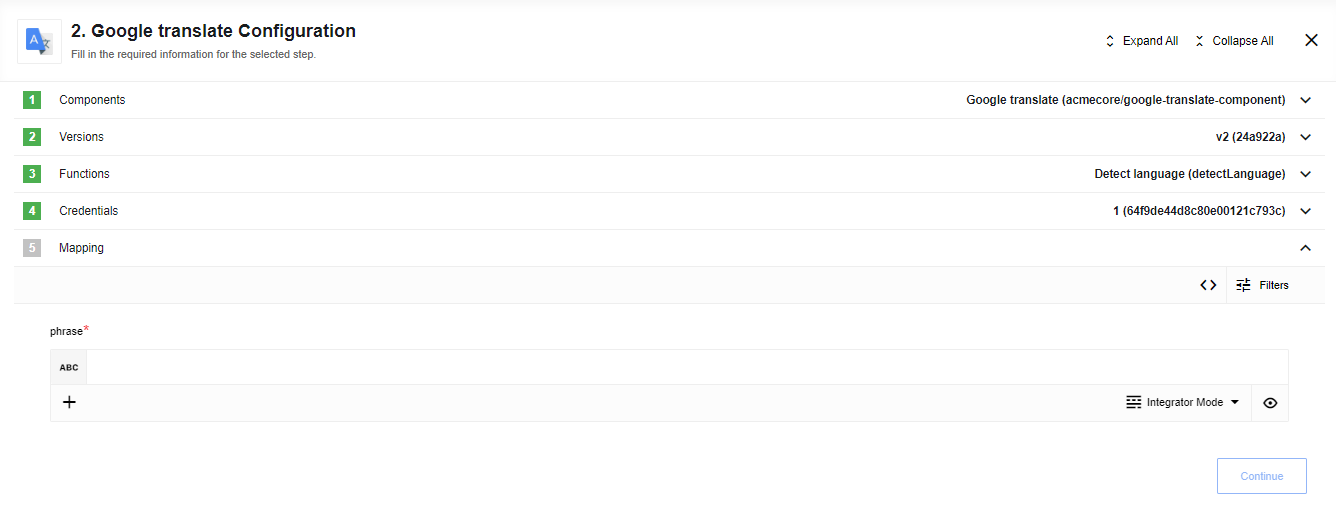
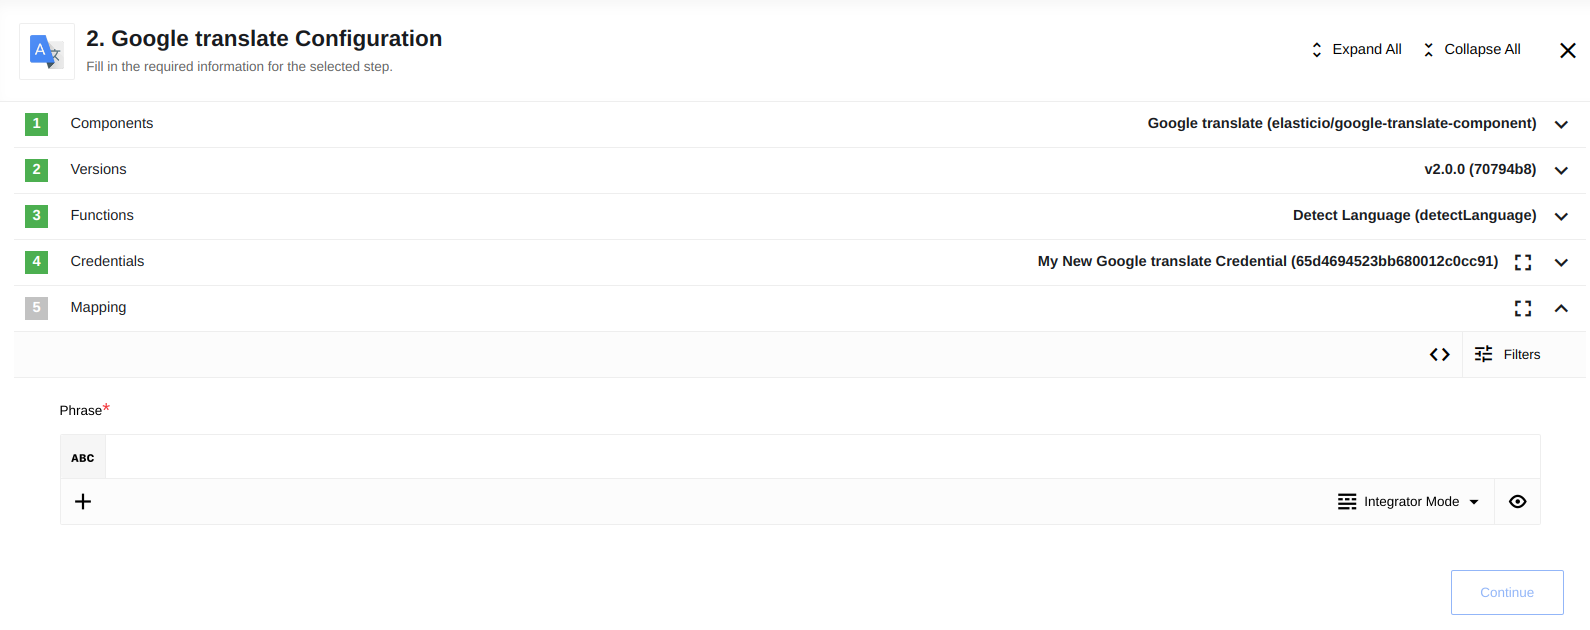
Update Google Translate v2.0.0 & tech-notes

diff --git a/content/_components/google-translate/index.md b/content/_components/google-translate/index.md
@@ -6,17 +6,28 @@ description: Google translate component for the platform.
 icon: google-translate.png
 icontext: Google-translate component
 category: google-translate
-updatedDate: 2020-12-10
-ComponentVersion: 0.0.2
+updatedDate: 2024-03-28
+ComponentVersion: 2.0.0
 ---
 
 ## Credentials
 
-In oprder to authenticate, you need to receive `apiKey` from your `Google cloud platform` account
+You need to create a new GCP project (or use an existing one) and enable **Google Cloud Translation API**.
 
-## Technical Notes
+You can find how to create new project [here](https://cloud.google.com/resource-manager/docs/creating-managing-projects): 
 
-The [technical notes](technical-notes) page gives some technical details about Google-translate component like [changelog](/components/google-translate/technical-notes#changelog).
+In order to authenticate, you need to get `apiKey` in your Google cloud platform account. Note that only the `API KEY` type is supported so far.
+
+To enable the translation API do the following:
+
+1. Go to the *Google Cloud Console* -> *APIs & Services* -> *Enabled APIs & services*.
+2. Click `+ ENABLE APIS AND SERVICES`.
+3. In the search field type `Cloud Translation API` and select this serivce.
+4. Click `Enable`.
+
+To get the key follow these steps:
+1. Go to the Google *Cloud Console* -> *APIs & Services* -> *Credentials*.
+2. Create a new API KEY credentials.
 
 ## Triggers
 
@@ -25,12 +36,11 @@ select as a first component during the integration flow design.
 
 ## Actions
 
-  * **Translate phrase**
-  * **Detect language**
-  * **Retrieve supported languages**
-  * **Translate object properties**
-  * **Translate array of objects**
-
+  * [**Detect Language**](#detect-language).
+  * [**Retrieve Supported Languages**](#retrieve-supported-languages).
+  * [**Translate Array of Texts**](#translate-array-of-texts).
+  * [**Translate Phrase**](#translate-phrase).
+  
 When specifying the language in a `Configure input` section, use two or three letter codes for that. For example,
 
     english -> en
@@ -43,100 +53,60 @@ When specifying the language in a `Configure input` section, use two or three le
 
 Such codes can be foud in a result of `Retrieve supported languages` action execution
 
-### Translate phrase
-
-`sourceLang` field is optional. Google will autodetect the source locale if not specified.
-
-{% include img.html max-width="100%" url="img/translate-phrase.png" title="Translate phrase" %}
-
-in/out metadata can be found at `/lib/schemas/translatePhrase.{in/out}.json`
-
 ### Detect language
+
+Detects language of the text (phrase) provided.
 
 {% include img.html max-width="100%" url="img/detect-language.png" title="Detect language" %}
 
-in/out metadata can be found at `/lib/schemas/detectLanguage.{in/out}.json`
+#### Input Metadata:
+* **Phrase** - (string, required): Text to detect language of.
 
-### Retrieve supported languages
+#### Output Metadata:
+* **result** - (object, required): The result object containing output data. Output body is generated by *Google Translate*.
+    * **input** - (string, required): Input text.
+    * **language** - (string, required): Detected language.
+    * **confidence** - (number, required): Confidence of the detection.
 
-out metadata can be found at `/lib/schemas/retrieveSupportedLanguages.out.json`
+### Retrieve Supported Languages
 
-### Translate object properties
+Retrieve languages supported by Google Translate. Returns an array of languages code and name.
 
-{% include img.html max-width="100%" url="img/translate-objects-properties.png" title="Translate object properties" %}
+{% include img.html max-width="100%" url="img/supported-languages.png" title="Supported Languages" %}
 
-in/out metadata can be found at `/lib/schemas/translateObjectProperties.{in/out}.json`
+#### Output Metadata:
+* **result** - (array, required): An array of objects describing the languages supported.
+    * **code** - (string, required): Code of the language. E.g. `uk`.
+    * **name** - (string, required): Name of the language. E.g. `Ukrainian`.
+    
+### Translate Array of Texts:
 
-#### Usage example
+Translate a batch of texts (strings). Works the same as the *Translate Phrase*, the only difference is that you can provide an array of texts instead of a single string.
 
-input message:
+{% include img.html max-width="100%" url="img/translate-array-of-texts.png" title="Translate Array of Texts" %}
 
-```
-{
-    "sourceObject": {
-        "hello": "hello world",
-        "capital": "London is the capital of Great Britain"
-    },
-    "sourceLang": "en",
-    "targetLang": "de"
-}
-```
+#### Input Metadata:
+- **Source Array** - (array, required): Array of texts (strings) to translate. E.g. ['Hi there', 'I am a component'].
+- **Source Language** - (string, optional): Language of the text to translate. Will be detected automatically if not specified. See the allowed values (retrieves dynamically). E.g. `en`.
+- **Target Language** - (string, required): Language to translate into. See the allowed values (retrieves dynamically). E.g. `uk`.
 
-output message:
+#### Output Metadata
+- **result** - (array, required): The result array containing translated text string from the input message. The order of the strings remains the same.
 
-```
-{
-    "hello": "Hallo Welt",
-    "capital": "London ist die Hauptstadt von Großbritannien"
-}
-```
+### Translate Phrase
 
-### Translate array of objects
+Translate the text (phrase) provided. Provide the text to translate, the language to translate into and, optionally, the language to translate from. If the source language is not specified, it will be detected by Google Translate automatically.
 
-{% include img.html max-width="100%" url="img/translate-array-of-objects.png" title="Translate array of objects" %}
+{% include img.html max-width="100%" url="img/translate-phrase.png" title="Translate phrase" %}
 
-in/out metadata can be found at `/lib/schemas/translateObjectProperties.{in/out}.json`
+#### Input Metadata
+- **Phrase** - (string, required): Text to translate.
+- **Source Language** - (string, optional): Language of the text to translate. Will be detected automatically if not specified. See the allowed values (retrieves dynamically). E.g. `en`.
+- **Target Language** - (string, required): Language to translate into. See the allowed values (retrieves dynamically). E.g. `uk`.
 
-#### Usage example
+#### Output Metadata
+- **result** - (string, required): The result object containing translation of the incoming phrase.
 
-input message:
+## Technical Notes
 
-```
-{
-	"sourceArray": [
-		{
-            "hello": "hello world",
-            "capital": "London is the capital of Great Britain"
-		},
-		{
-			"color": "red",
-			"mood": "great mood"
-		}
-	],
-	"sourceLang": "en",
-	"targetLang": "de"
-}
-```
-
-output message:
-
-```
-{
-    "translatedArray": [
-    	{
-    		"capital": "London ist die Hauptstadt von Großbritannien",
-    		"hello": "Hallo Welt"
-    	},
-    	{
-    		"mood": "großartige Stimmung",
-    		"color": "rot"
-    	}
-    ]
-}
-```
-
-## Links
-
-You need to create new or use existing `GCP project` and enable `Google Cloud Translation API`
-
-[How to create new project](https://cloud.google.com/resource-manager/docs/creating-managing-projects)
+The [technical notes](technical-notes) page gives some technical details about Google-translate component like [changelog](/components/google-translate/technical-notes#changelog).

diff --git a/content/_components/google-translate/technical-notes.md b/content/_components/google-translate/technical-notes.md
@@ -5,11 +5,21 @@ description: Technical Notes for the Google translate component.
 icon: google-translate.png
 icontext: Google-translate component
 category: google-translate
-updatedDate: 2020-12-10
-ComponentVersion: 0.0.2
+updatedDate: 2024-03-28
+ComponentVersion: 2.0.0
 ---
 
 ## Changelog
+
+### 2.0.0 (March 29, 2024)
+* Breaking Changes:
+  * Google Translate library switched from `google-translate:3.0.0` to `@google-cloud/translate:8.1.0`.
+  * Translate Object Properties has not been transferred to this component version.
+  * Actions metadata has been changed.
+  * Action *Translate Array of Objects* renamed (and reworked) to *Translate Array of Texts*.
+* Updated Sailor to `2.7.2`.
+* Updated dev libraries.
+* Fixed credentials verification stuck issue.
 
 ### 0.0.2 (December 10, 2020)
 
